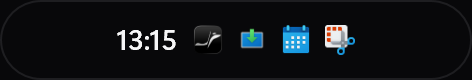
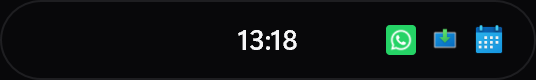
fix: keep the clock on the notch centre line
Centring clock and icons as one group pushed the time left every time a
badge appeared, which read as a cramped notch rather than a balanced one.

The clock is now placed on the centre line independently. Icons anchor to
the right edge and the row is measured against the clock's right edge,
dropping icons from the end until they clear it with 14 dip to spare. No
badge ever touches the time.

Notch widened 236 -> 268 dip so four icons fit without crowding either
edge.

diff --git a/src/scene.cpp b/src/scene.cpp
@@ -260,36 +260,46 @@ void Scene::drawNotch(ID2D1RenderTarget* rt, const Snapshot& s, float w, float h
 
   const float iconSize = 15.0f;
   const float iconGap = 7.0f;
-  const float clockGap = 8.0f;
+  const float rightPad = 16.0f;
+  const float clockToIcon = 14.0f;
 
+  // The clock stays exactly on the notch centre line. Centring clock+icons as one
+  // group moved the time off-centre every time a badge appeared, which read as
+  // cramped. Icons are anchored to the right edge instead, and the count is
+  // reduced until they clear the clock.
   const float clockW = measureText(clock, timeNotch_);
-  const float iconsW = static_cast<float>(maxIcons) * iconSize +
-                       static_cast<float>(maxIcons - 1) * iconGap;
-  const float groupW = clockW + (clockW > 0.0f ? clockGap : 0.0f) + iconsW;
+  const float clockLeft = (w - clockW) * 0.5f;
 
-  // Centre the clock-plus-icons group as one unit, so the notch still reads as
-  // balanced rather than the clock drifting left as badges appear.
-  float x = (w - groupW) * 0.5f;
-  if (x < 4.0f) x = 4.0f;
+  int icons = maxIcons;
+  float iconsW = 0.0f;
+  while (icons > 0) {
+    iconsW = static_cast<float>(icons) * iconSize +
+             static_cast<float>(icons - 1) * iconGap;
+    if (w - rightPad - iconsW >= clockLeft + clockW + clockToIcon) break;
+    --icons;
+  }
 
-  textAt(rt, timeNotch_, clock, D2D1::RectF(x, cy - 10.0f, x + clockW + 2.0f, cy + 10.0f),
-         textB, DWRITE_TEXT_ALIGNMENT_LEADING);
+  textAt(rt, timeNotch_, clock,
+         D2D1::RectF(clockLeft, cy - 10.0f, clockLeft + clockW + 2.0f, cy + 10.0f), textB,
+         DWRITE_TEXT_ALIGNMENT_LEADING);
 
-  float ix = x + clockW + (clockW > 0.0f ? clockGap : 0.0f);
-  for (int i = 0; i < maxIcons; ++i) {
-    const AppBadge& badge = ambient_->badges[static_cast<size_t>(i)];
-    const D2D1_RECT_F r =
-        D2D1::RectF(ix, cy - iconSize * 0.5f, ix + iconSize, cy + iconSize * 0.5f);
+  if (icons > 0) {
+    float ix = w - rightPad - iconsW;
+    for (int i = 0; i < icons; ++i) {
+      const AppBadge& badge = ambient_->badges[static_cast<size_t>(i)];
+      const D2D1_RECT_F r =
+          D2D1::RectF(ix, cy - iconSize * 0.5f, ix + iconSize, cy + iconSize * 0.5f);
 
-    if (badge.icon) {
-      rt->DrawBitmap(badge.icon, r, 1.0f, D2D1_BITMAP_INTERPOLATION_MODE_LINEAR);
-    } else {
-      // No icon resolved: a dot still says "something happened here".
-      rt->FillEllipse(D2D1::Ellipse(D2D1::Point2F(ix + iconSize * 0.5f, cy), 3.5f, 3.5f),
-                      accentB);
+      if (badge.icon) {
+        rt->DrawBitmap(badge.icon, r, 1.0f, D2D1_BITMAP_INTERPOLATION_MODE_LINEAR);
+      } else {
+        // No icon resolved: a dot still says "something happened here".
+        rt->FillEllipse(D2D1::Ellipse(D2D1::Point2F(ix + iconSize * 0.5f, cy), 3.5f, 3.5f),
+                        accentB);
+      }
+
+      ix += iconSize + iconGap;
     }
-
-    ix += iconSize + iconGap;
   }
 
   if (accentB) accentB->Release();

diff --git a/src/scene.h b/src/scene.h
@@ -15,7 +15,7 @@
 // Hovering: it grows downward into a panel with the launcher and metrics.
 // The window never moves sideways; it expands around its own centre line.
 namespace layout {
-constexpr float kNotchW = 236.0f;
+constexpr float kNotchW = 268.0f;
 constexpr float kNotchH = 40.0f;
 constexpr float kPanelW = 452.0f;
 constexpr float kPanelH = 318.0f;

diff --git a/README.md b/README.md
@@ -9,10 +9,10 @@ Nothing else - no charts, no telemetry dashboard, no account.
 
 ## What it does
 
-- **Resting**: a 236 x 40 pill at the top centre holding the clock, plus one icon
-  per app with recent notifications - up to four, newest first. The clock and the
-  icons are measured and centred as one group, so the time does not drift left as
-  badges appear. While a track plays the title takes the clock's place.
+- **Resting**: a 268 x 40 pill at the top centre. The clock stays exactly on the
+  centre line; up to four notification icons anchor to the right edge. Icons are
+  dropped from the row rather than allowed to collide with the clock, so the time
+  never looks crowded. While a track plays the title takes the clock's place.
 - **Hovering**: grows into a 4-column launcher grid. Click a tile to open the app.
 - **Now playing**: when any player is active (Spotify, browsers, VLC, Groove) a
   card above the grid shows the track, a seekable progress bar with elapsed and
@@ -83,6 +83,8 @@ leaves a half-empty row.
 | `WM_CAPTURECHANGED` clears the drag | Capture can be taken away mid-drag (Alt+Tab, another window, a shell overlay). The drag flag gates the 1 Hz media refresh, so a stolen capture used to freeze the card until restart. |
 | Notifications read from `wpndatabase.db`, not the notification API | `UserNotificationListener` reports `GetAccessStatus = Allowed` here, but `GetNotificationsAsync` never completes (measured: status stayed `Started` for 10 s). Unpackaged processes cannot use it; shipping needs an MSIX identity. The store is opened read-only in WAL mode, so a live reader neither blocks the service nor misses recent rows. Only two columns are read: `Handler.PrimaryId` and `Notification.ArrivalTime`. Content is never touched. |
 | Icon from `shell:AppsFolder\<AUMID>` | Packaged apps expose their real icon through the shell namespace even though the calling process is unpackaged. Verified on WhatsApp, Snipping Tool and Orca AUMIDs; system toast handlers such as `Print.PrinterCleanupTask` have no entry and fall back to no icon rather than a generic square. |
+| Clock centred, icons anchored right | Centring clock+icons as one group moved the time off-centre whenever a badge appeared, which read as cramped. The clock now sits on the centre line and the icon row hangs off the right edge, capped by a measured check that drops icons until they clear. |
+| Notch widened to 268 dip | Four 15 px icons plus gaps need the room; at 236 the group overlapped the clock. |
 | Badges in the notch, not the panel | Measured: the panel is invisible while collapsed, which is most of the time. Putting the icons next to the clock makes them readable at a glance; the panel keeps the date, battery and volume. |
 | Notification count is not the unread count | The store counts toast *arrivals*, which is history: Orca showed 10 arrivals but zero unread. Only "has something recent" is taken from it. The number drawn next to a logo comes from the app's own title, where it means actual unread. Zero counts are not drawn at all - a row of "0"s was the first thing the screenshot showed. |
 | Vendored SQLite, `SQLITE_THREADSAFE=0` | No system SQLite on Windows, and the panel is single-threaded, so the smaller build is the correct one. Compiled once into `build/sqlite3.o` and reused. |
